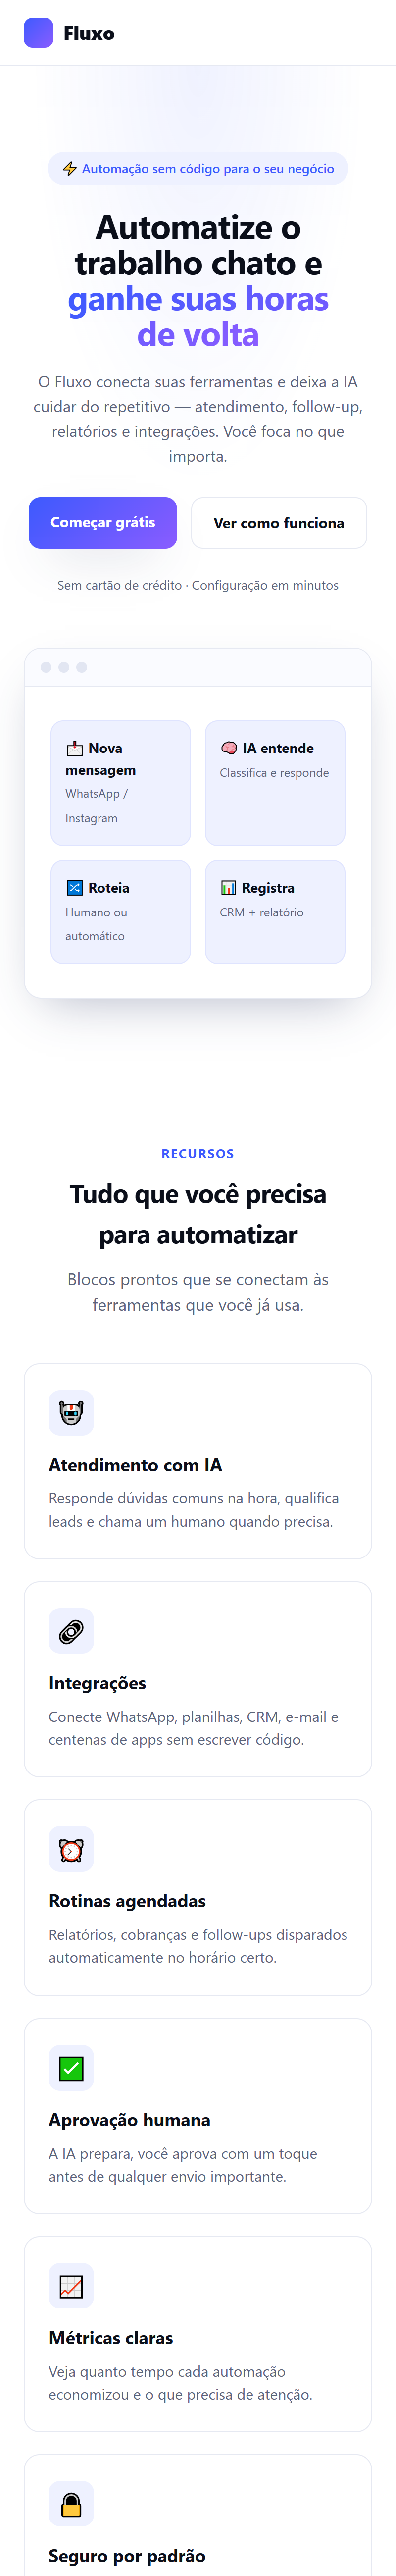
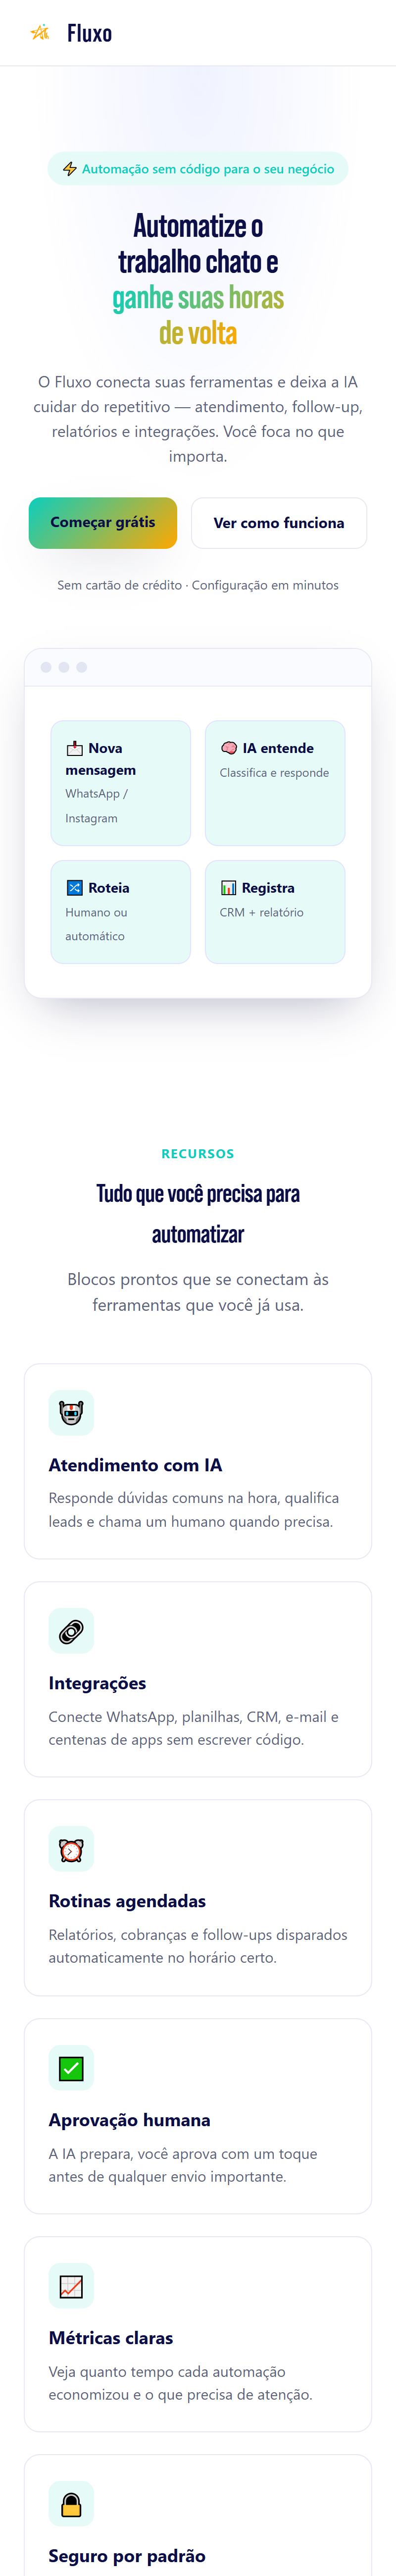
Aplica identidade visual Allan Thurler (paleta ciano/marinho/ambar, Bebas Neue Pro, logomarca)

diff --git a/index.html b/index.html
@@ -5,26 +5,30 @@
 <meta name="viewport" content="width=device-width, initial-scale=1.0" />
 <title>Fluxo — automações que economizam suas horas</title>
 <style>
+  @font-face{font-family:"Bebas Neue Pro";src:url("fonts/Bebas-Neue-Pro-Bold.ttf") format("truetype");font-weight:700;font-display:swap}
+  @font-face{font-family:"Bebas Neue Pro Exp";src:url("fonts/Bebas-Neue-Pro-Expanded-Bold.ttf") format("truetype");font-weight:700;font-display:swap}
   :root{
-    --bg:#0b0f1a; --ink:#0b0f1a; --paper:#ffffff; --muted:#5b647a;
-    --brand:#3d5afe; --brand2:#8a5cff; --soft:#eef1ff; --line:#e6e9f2;
-    --ok:#12b981; --shadow:0 20px 50px -20px rgba(30,40,90,.35);
+    --bg:#0D1046; --ink:#0D1046; --paper:#ffffff; --muted:#5b647a;
+    --brand:#0BCEBE; --brand2:#FFA800; --soft:#e6faf8; --line:#e6e9f2;
+    --ok:#0BCEBE; --shadow:0 20px 50px -20px rgba(13,16,70,.35);
+    --display:"Bebas Neue Pro","Segoe UI",system-ui,sans-serif;
   }
   *{box-sizing:border-box;margin:0;padding:0}
   html{scroll-behavior:smooth}
   body{font-family:"Segoe UI",system-ui,-apple-system,Roboto,Arial,sans-serif;color:var(--ink);background:var(--paper);line-height:1.55}
+  h1,.h2,.hero h1,.plan .val{font-family:var(--display);font-weight:700;letter-spacing:.005em}
   a{text-decoration:none;color:inherit}
   .wrap{max-width:1120px;margin:0 auto;padding:0 24px}
   .btn{display:inline-block;padding:13px 22px;border-radius:12px;font-weight:700;font-size:15px;transition:.15s}
-  .btn-primary{background:linear-gradient(135deg,var(--brand),var(--brand2));color:#fff;box-shadow:var(--shadow)}
+  .btn-primary{background:linear-gradient(135deg,var(--brand),var(--brand2));color:#0D1046;box-shadow:var(--shadow)}
   .btn-primary:hover{transform:translateY(-2px)}
   .btn-ghost{border:1px solid var(--line);color:var(--ink)}
   .btn-ghost:hover{background:var(--soft)}
   /* nav */
   nav{position:sticky;top:0;z-index:20;background:rgba(255,255,255,.85);backdrop-filter:blur(10px);border-bottom:1px solid var(--line)}
   nav .wrap{display:flex;align-items:center;justify-content:space-between;height:66px}
-  .logo{display:flex;align-items:center;gap:10px;font-weight:800;font-size:19px}
-  .logo .mk{width:30px;height:30px;border-radius:9px;background:linear-gradient(135deg,var(--brand),var(--brand2))}
+  .logo{display:flex;align-items:center;gap:10px;font-family:var(--display);font-weight:700;font-size:26px;letter-spacing:.02em}
+  .logo .mk{width:34px;height:34px;background:url("img/ath-mark.png") no-repeat center/contain}
   .navlinks{display:flex;gap:28px;align-items:center;color:var(--muted);font-weight:500;font-size:15px}
   .navlinks a:hover{color:var(--ink)}
   /* hero */
@@ -55,7 +59,7 @@
   .feat .ic{width:46px;height:46px;border-radius:12px;background:var(--soft);display:grid;place-items:center;font-size:22px;margin-bottom:16px}
   .feat h3{font-size:18px;margin-bottom:8px}
   .feat p{color:var(--muted);font-size:15px}
-  .steps{background:#0b0f1a;color:#fff;border-radius:26px;padding:60px 40px}
+  .steps{background:var(--bg);color:#fff;border-radius:26px;padding:60px 40px}
   .steps .h2,.steps .sub{color:#fff}.steps .sub{color:#9aa3c7}
   .stepgrid{display:grid;grid-template-columns:repeat(3,1fr);gap:26px;margin-top:20px}
   .step .n{width:40px;height:40px;border-radius:11px;background:linear-gradient(135deg,var(--brand),var(--brand2));display:grid;place-items:center;font-weight:800;margin-bottom:14px}
@@ -160,8 +164,11 @@
 </div></div></section>
 
 <footer><div class="wrap">
-  <div class="logo" style="font-size:16px"><span class="mk"></span> Fluxo</div>
-  <div>Protótipo de landing page · produto fictício · feito por Allan Thurler</div>
+  <div class="logo" style="font-size:20px"><span class="mk"></span> Fluxo</div>
+  <div style="display:flex;align-items:center;gap:12px;color:var(--muted)">
+    <span>Protótipo de landing page · produto fictício</span>
+    <img src="img/allan-logo.png" alt="Allan Thurler" style="height:34px;width:auto" />
+  </div>
 </div></footer>
 </body>
 </html>